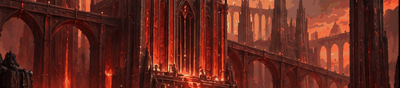
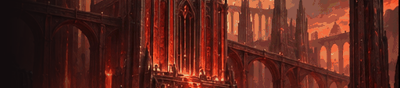
Keep carved ornaments native-sized and focus outside card frames

Changed region(s): [[0.0, 0.0, 0.3, 1.0], [0.24, 0.1364, 0.27, 0.1591]]

diff --git a/crates/ddl/ui/assets/ember/build_assets.py b/crates/ddl/ui/assets/ember/build_assets.py
@@ -20,14 +20,35 @@ wall = Image.new('RGB', (1280,632))
 for y in range(0,632,438):
     for x in range(0,1280,512): wall.paste(tile, (x,y))
 save(wall, 'wall.png')
-frame = a.crop((512,0,1024,438)).resize((256,220))
-# 28 px carved perimeter; center is completely opaque, independent of scaling.
-ImageDraw.Draw(frame).rectangle((28,28,227,191), fill='#211719')
-save(frame,'frame.png')
+source_frame = a.crop((512,0,1024,438))
+f = source_frame.resize((256,220), Image.Resampling.LANCZOS)
+# Only plain rail cross-sections stretch. Corners and ornaments never scale up.
+frame = Image.new('RGB', (128,128), '#211719')
+for x,y,sx,sy in [(0,0,0,0),(100,0,228,0),(0,100,0,192),(100,100,228,192)]:
+    frame.paste(f.crop((sx,sy,sx+28,sy+28)), (x,y))
+frame.paste(f.crop((60,0,61,28)).resize((72,28)), (28,0))
+frame.paste(f.crop((60,192,61,220)).resize((72,28)), (28,100))
+frame.paste(f.crop((0,60,28,61)).resize((28,72)), (0,28))
+frame.paste(f.crop((228,60,256,61)).resize((28,72)), (100,28))
+save(frame, 'frame.png')
+for name, box, size in [
+    ('ornament-top.png', (208,0,304,56), (96,28)),
+    ('ornament-bottom.png', (208,382,304,438), (96,28)),
+    ('ornament-left.png', (0,190,56,248), (28,48)),
+    ('ornament-right.png', (456,190,512,248), (28,48)),
+]:
+    save(source_frame.crop(box).resize(size, Image.Resampling.LANCZOS), name)
 for i, name in enumerate(['sigil','sigil-ii','auger']):
     cover=a.crop((i*512,438,(i+1)*512,1024))
     save(cover,name+'.png')
+    # One continuous source crop, with the transition into the title baked in.
     band=ImageOps.fit(cover,(400,88),centering=(.5,.35))
+    fade=Image.new('L',band.size)
+    for x in range(400):
+        t=min(1., x/144.)
+        alpha=round(255 * t*t*(3-2*t))
+        ImageDraw.Draw(fade).line((x,0,x,87),fill=alpha)
+    band=Image.composite(band,Image.new('RGB',band.size,'#120C0D'),fade)
     save(band,name+'-band.png')
 emblem = a.crop((1024,0,1536,438))
 save(ImageOps.fit(emblem,(64,64)), 'emblem.png')

diff --git a/crates/ddl/src/headless.rs b/crates/ddl/src/headless.rs
@@ -196,11 +196,12 @@ fn fixture_screens_navigation_and_focus_render_headlessly() {
                         },
                 )
             };
+            let ring_offset = if node.kind == 1 { 14. } else { 6. };
             for (px, py) in [
-                (x + node.w / 2., y - 6.),
-                (x + node.w / 2., y + node.h + 6.),
-                (x - 6., y + node.h / 2.),
-                (x + node.w + 6., y + node.h / 2.),
+                (x + node.w / 2., y - ring_offset),
+                (x + node.w / 2., y + node.h + ring_offset),
+                (x - ring_offset, y + node.h / 2.),
+                (x + node.w + ring_offset, y + node.h / 2.),
             ] {
                 assert!(
                     px >= 0. && px < WIDTH as f32 && py >= 0. && py < HEIGHT as f32,
